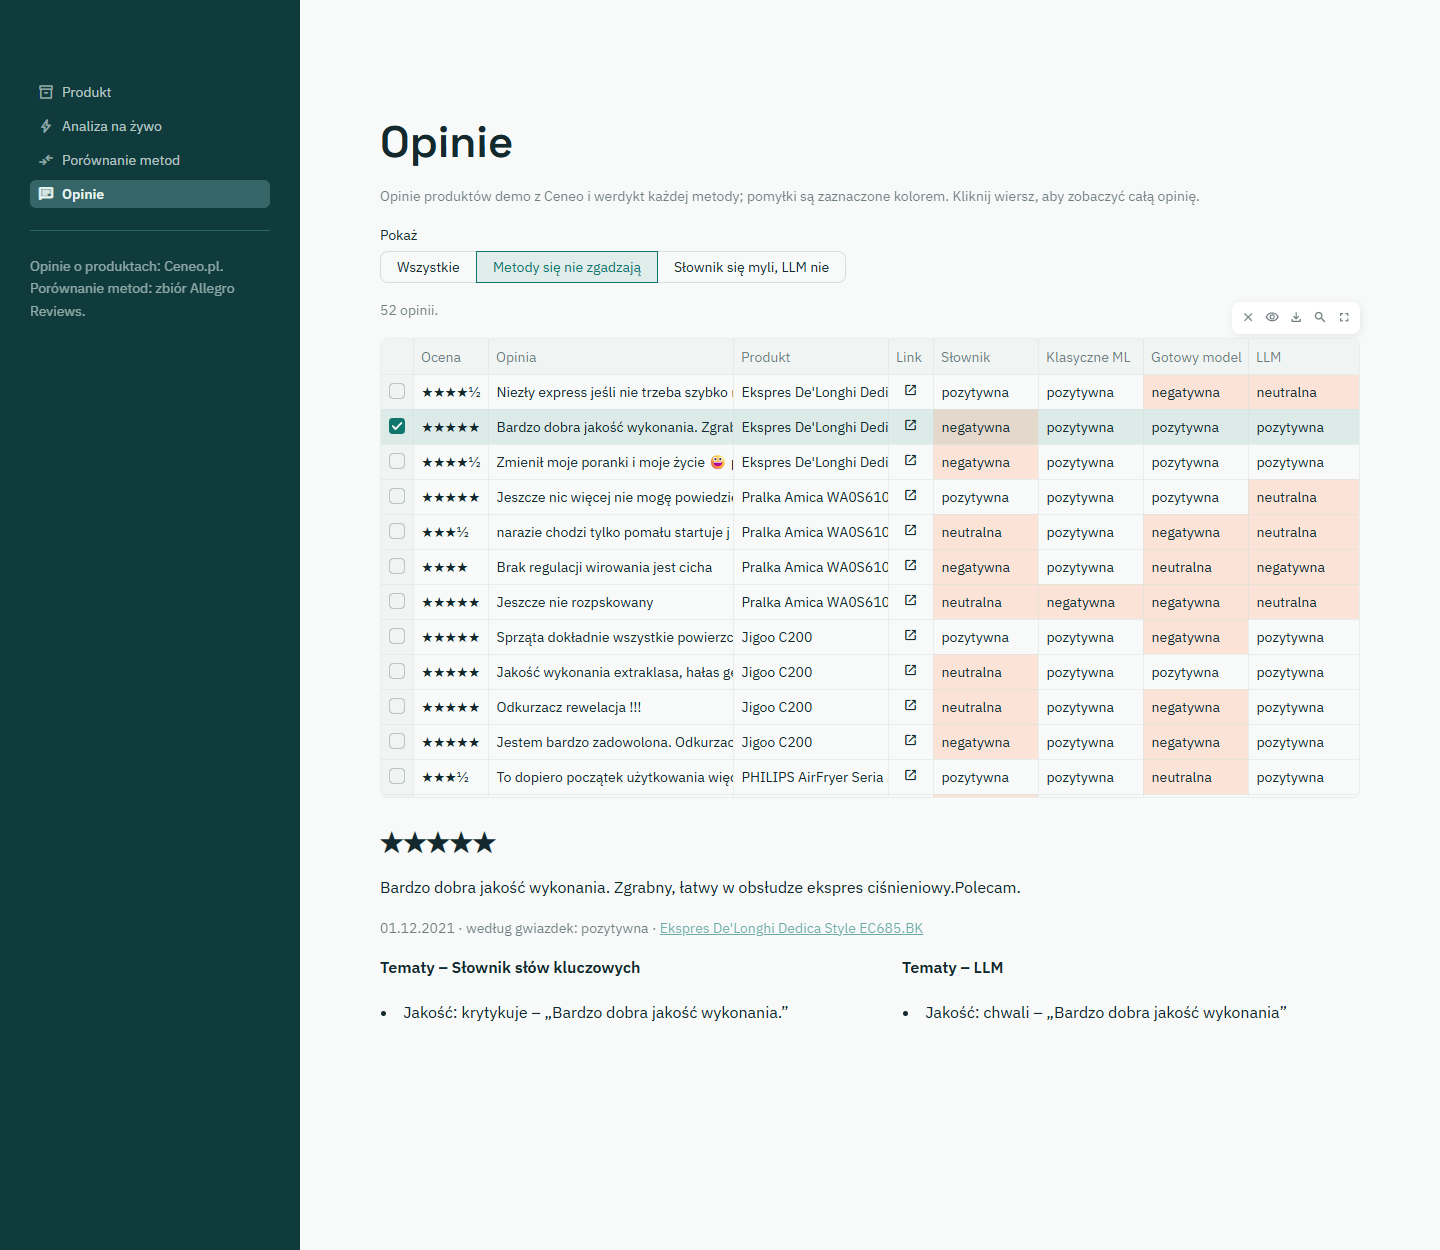
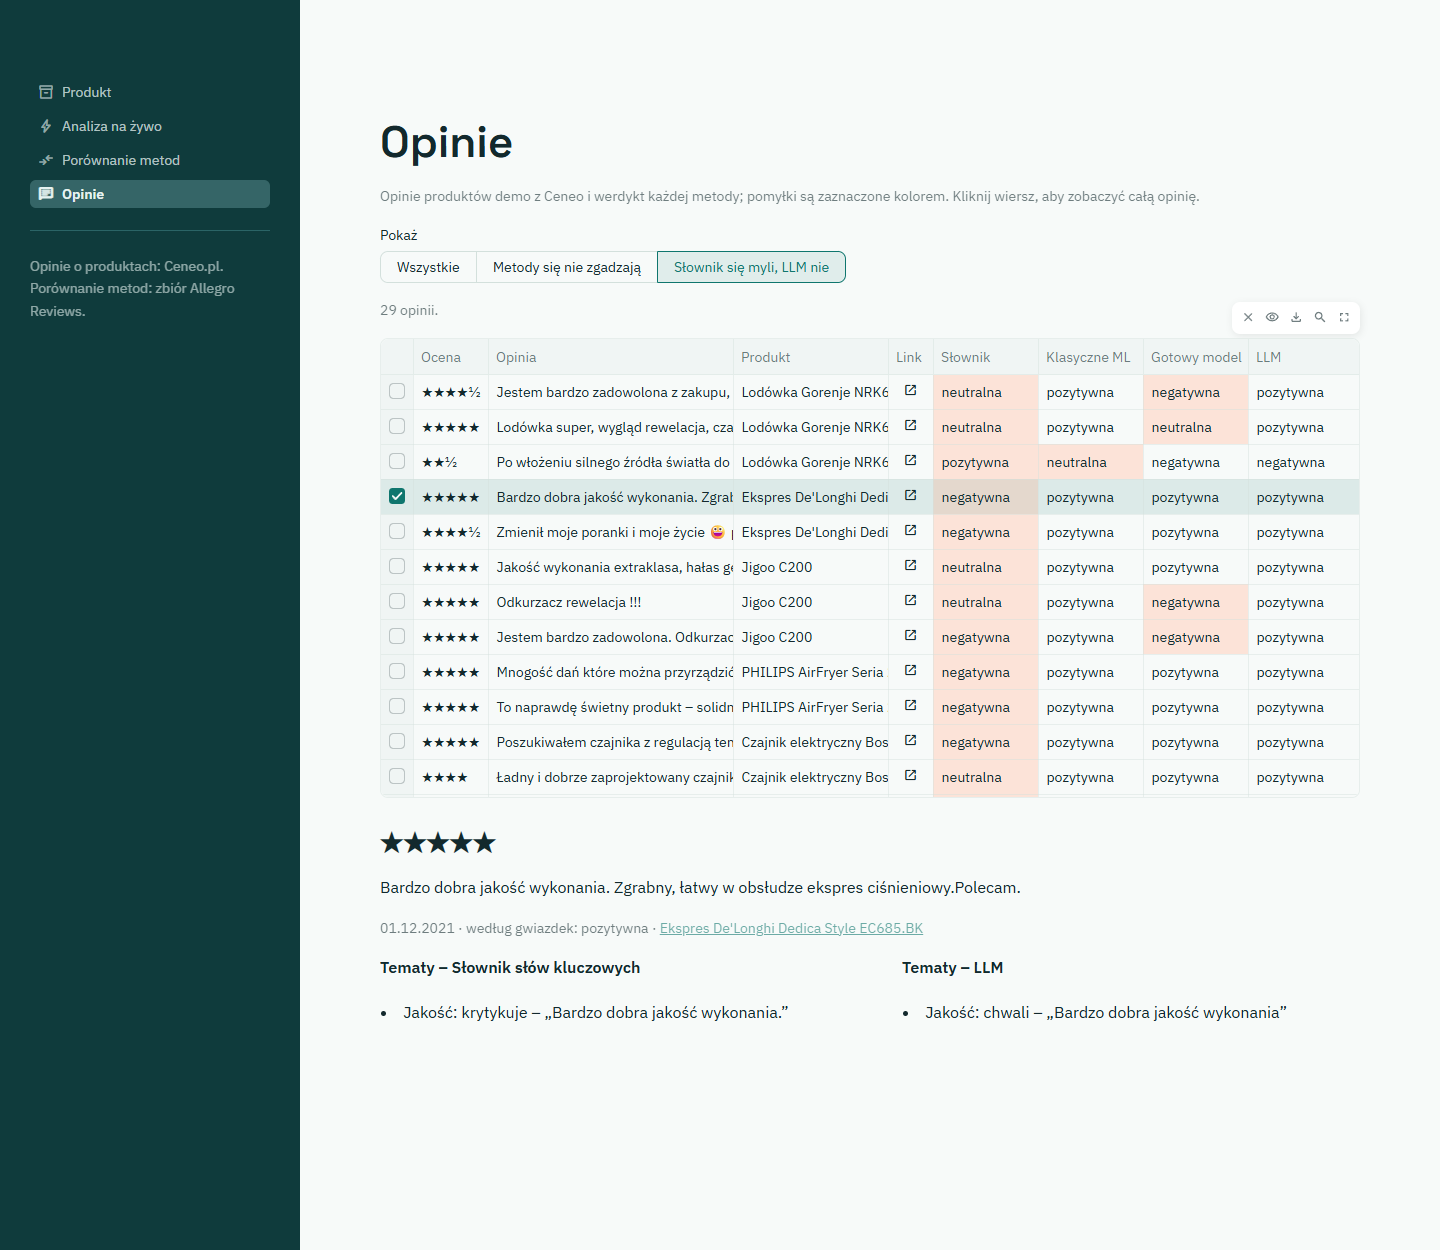
Simplify method comparison page and clean up code

diff --git a/views/comparison.py b/views/comparison.py
@@ -1,4 +1,4 @@
-"""Comparison of the four methods: quality, time and cost of analysing 1000 reviews."""
+"""Comparison of the four methods: quality, time and what the LLM would cost through an API."""
 
 import json
 
@@ -7,31 +7,29 @@ import pandas as pd
 import streamlit as st
 
 from src.app_data import load_eval, load_metrics
-from src.config import API_PRICES, API_PRICES_CHECKED, USD_PLN, USD_PLN_SOURCE
+from src.config import API_PRICES_CHECKED
 from src.formatting import (
     GRAY, INK, METHOD_LABELS, NEGATIVE, NEUTRAL, POSITIVE, SENTIMENT_LABELS, SOURCE_LABELS, TEAL, fmt_int, fmt_num,
     fmt_pct, fmt_pln, fmt_seconds,
 )
+from src.llm import api_costs
 from src.topics import TOPIC_LABELS
 
 metrics = load_metrics()
 evaluated = load_eval()
 methods = metrics["methods"]
 n = metrics["eval_reviews"]
-right = st.column_config.TextColumn(alignment="right")
+positive = metrics["class_shares"].get("positive", 0)
 
 st.title("Porównanie metod")
-st.caption(f"Te same {fmt_int(n)} opinii z publicznego zbioru Allegro Reviews dla każdej metody. Prawdą jest ocena "
-           "klienta: poniżej 3★ to opinia negatywna, 3★ neutralna, powyżej 3★ pozytywna.")
+st.caption(f"Te same {fmt_int(n)} polskich opinii ze zbioru Allegro Reviews dla każdej metody; "
+           "prawdą jest ocena klienta.")
 
 best = max(methods, key=lambda m: methods[m]["f1_macro"])
 best_negative = max(methods, key=lambda m: methods[m]["f1"]["negative"])
-st.markdown(
-    f"Najlepiej rozpoznaje sentyment **{METHOD_LABELS[best]}** (F1 makro {fmt_num(methods[best]['f1_macro'])}), "
-    f"a opinie negatywne najlepiej wyłapuje **{METHOD_LABELS[best_negative]}** "
-    f"(F1 {fmt_num(methods[best_negative]['f1']['negative'])}). "
-    f"Słownik jest najprostszy, ale wyraźnie słabszy (F1 makro {fmt_num(methods['lexicon']['f1_macro'])})."
-)
+st.markdown(f"Najlepiej rozpoznaje sentyment **{METHOD_LABELS[best]}**, a opinie negatywne najlepiej wyłapuje "
+            f"**{METHOD_LABELS[best_negative]}**. Słownik jest najprostszy, ale wyraźnie słabszy.")
+
 table = pd.DataFrame({
     "Metoda": [METHOD_LABELS[m] for m in methods],
     "Trafność": [fmt_pct(v["accuracy"], 1) for v in methods.values()],
@@ -39,23 +37,29 @@ table = pd.DataFrame({
     "Czas na 1000 opinii": [fmt_seconds(v["seconds_per_1000"]) for v in methods.values()],
 })
 st.dataframe(table, hide_index=True, width="stretch", column_config={
-    "Trafność": right,
+    "Trafność": st.column_config.TextColumn(
+        alignment="right", help="Jaka część opinii dostała dobrą ocenę. Ocena klienta: poniżej 3★ negatywna, "
+                                "3★ neutralna, powyżej 3★ pozytywna."),
     "F1 makro": st.column_config.TextColumn(
-        alignment="right", help="Średnia F1 z trzech klas: każda liczy się tak samo, także rzadkie opinie neutralne."),
-    "Czas na 1000 opinii": right,
+        alignment="right", help=f"Główna miara: średnia F1 z trzech klas, każda liczy się tak samo. Metoda, która zawsze "
+                                f"mówi „pozytywna”, ma trafność {fmt_pct(positive)}, ale F1 makro tylko "
+                                f"{fmt_num(2 * positive / (1 + positive) / 3)}."),
+    "Czas na 1000 opinii": st.column_config.TextColumn(
+        alignment="right", help=f"Zmierzony na {metrics['gpu']}. LLM: {metrics['llm_model']} przez Ollamę."),
 })
-st.caption(f"Wszystkie metody działały lokalnie, bez opłat. Czas zmierzony na {metrics['gpu']}. "
-           f"LLM: {metrics['llm_model']} przez Ollamę, "
-           f"{metrics['llm_workers']} zapytania naraz. Klasyczne ML uczyło się "
-           f"{fmt_seconds(metrics['tfidf_train_seconds'])} na {fmt_int(metrics['tfidf_train_reviews'])} innych opiniach.")
+costs = api_costs(metrics["llm_tokens_per_1000"])
+links = ", ".join(f"[{c['model'].split(' (')[0]}]({c['source']})" for c in costs)
+st.caption(f"Wszystkie metody działały lokalnie, bez opłat. Przez płatne API LLM kosztowałby "
+           f"{fmt_num(min(c['pln'] for c in costs))}–{fmt_pln(max(c['pln'] for c in costs))} za 1000 opinii "
+           f"(ceny z {API_PRICES_CHECKED}: {links}).")
 
 st.subheader("Które opinie sprawiają kłopot")
 per_class = pd.DataFrame([
     {"Metoda": METHOD_LABELS[m], "Klasa": SENTIMENT_LABELS[c], "F1": v["f1"][c]}
     for m, v in methods.items() for c in SENTIMENT_LABELS
 ])
-classes = list(SENTIMENT_LABELS.values())
 per_class["Etykieta"] = per_class["F1"].map(fmt_num)
+classes = list(SENTIMENT_LABELS.values())
 chart = alt.Chart(per_class).mark_bar(height=12, cornerRadius=3).encode(
     x=alt.X("F1:Q", scale=alt.Scale(domain=[0, 1]), title="F1 (1 = bez błędów)",
             axis=alt.Axis(values=[0, 0.2, 0.4, 0.6, 0.8, 1], labelExpr="replace(format(datum.value, '.1f'), '.', ',')")),
@@ -67,24 +71,7 @@ chart = alt.Chart(per_class).mark_bar(height=12, cornerRadius=3).encode(
 )
 labels = chart.mark_text(align="left", dx=4, fontSize=11).encode(text="Etykieta:N", color=alt.value(INK))
 st.altair_chart((chart + labels).properties(height=320), width="stretch")
-shares = metrics["class_shares"]
-st.caption(f"Opinii neutralnych (3★) jest najmniej ({fmt_pct(shares.get('neutral', 0), 1)}) i są najtrudniejsze: "
-           "klient pisze o zaletach i wadach naraz.")
-
-st.subheader("Ile kosztowałby LLM przez API")
-tokens = metrics["llm_tokens_per_1000"]
-costs = []
-for price in API_PRICES:
-    pln = (tokens["input"] * price["input"] + tokens["output"] * price["output"]) / 1e6 * USD_PLN
-    costs.append({"Model": price["model"], "Koszt na 1000 opinii": fmt_pln(pln),
-                  "Koszt na 100 000 opinii": fmt_pln(pln * 100), "Cennik": price["source"]})
-st.dataframe(pd.DataFrame(costs), hide_index=True, width="stretch", column_config={
-    "Koszt na 1000 opinii": right, "Koszt na 100 000 opinii": right,
-    "Cennik": st.column_config.LinkColumn(display_text="cennik"),
-})
-st.caption(f"Ceny standardowe z cenników z {API_PRICES_CHECKED}; {USD_PLN_SOURCE}. Liczba tokenów pochodzi z modelu "
-           f"lokalnego ({fmt_int(tokens['input'])} wejściowych i {fmt_int(tokens['output'])} wyjściowych na 1000 opinii). "
-           "Modele w API liczą tokeny trochę inaczej, więc to szacunek.")
+st.caption("Najtrudniejsze są opinie neutralne (3★): klient pisze o zaletach i wadach naraz.")
 
 st.subheader("Tematy: słownik czy LLM?")
 counts = pd.DataFrame([
@@ -101,15 +88,5 @@ chart = alt.Chart(counts).mark_bar(height=14, cornerRadius=3).encode(
     tooltip=["Temat:N", "Źródło:N", "Wzmianki:Q"],
 )
 st.altair_chart(chart.properties(height=320), width="stretch")
-st.markdown(
-    f"Słownik znajduje temat tylko wtedy, gdy padnie jedno ze słów z listy, a wydźwięk ocenia po słowach w zdaniu. "
-    f"LLM rozumie sens, ale czasem cytuje słowa, których klient nie napisał: dosłownych cytatów jest "
-    f"**{fmt_pct(metrics['llm_quotes_verbatim'])}**. Pozostałe aplikacja pomija."
-)
-
-positive = shares.get("positive", 0)
-st.info(
-    f"**Dlaczego nie wystarczy trafność?** {fmt_pct(positive)} opinii jest pozytywnych. Metoda, która zawsze mówi "
-    f"„pozytywna”, ma trafność {fmt_pct(positive)}, ale F1 makro tylko {fmt_num(2 * positive / (1 + positive) / 3)}.",
-    icon=":material/info:",
-)
+st.caption(f"Słownik widzi temat tylko wtedy, gdy padnie słowo z listy; LLM rozumie sens. "
+           f"{fmt_pct(metrics['llm_quotes_verbatim'])} cytatów LLM jest dosłownie w opinii, pozostałe aplikacja pomija.")

diff --git a/report.py b/report.py
@@ -13,13 +13,13 @@ import numpy as np
 import pandas as pd
 
 from src.config import (
-    API_PRICES, API_PRICES_CHECKED, DEMO_RESULTS, EVAL_RESULTS, METRICS_PATH, PRODUCTS_RESULTS, RESULTS_DIR,
-    SEED, USD_PLN, USD_PLN_SOURCE,
+    API_PRICES_CHECKED, DEMO_RESULTS, EVAL_RESULTS, METRICS_PATH, PRODUCTS_RESULTS, RESULTS_DIR, SEED, USD_PLN_SOURCE,
 )
 from src.formatting import (
     INK, METHOD_LABELS, NEGATIVE, NEUTRAL, POSITIVE, SENTIMENT_LABELS, SOURCE_LABELS, TEAL, fmt_int, fmt_num,
     fmt_pct, fmt_pln, fmt_seconds,
 )
+from src.llm import api_costs
 from src.topics import TOPIC_LABELS
 
 TOPIC_SAMPLE = RESULTS_DIR / "topic_review_sample.csv"
@@ -92,7 +92,7 @@ def topic_check(evaluated: pd.DataFrame) -> str:
     if not TOPIC_SAMPLE.exists():
         sample = evaluated.sample(SAMPLE_SIZE, random_state=SEED)
         pd.DataFrame({
-            "opinia": sample["text"].str.strip(),
+            "opinia": sample["text"],
             "tematy_slownik": sample["topics_keywords"].map(topics_text),
             "tematy_llm": sample["topics_llm"].map(topics_text),
             "poprawne_slownik": "",
@@ -127,19 +127,18 @@ def main() -> None:
     })
     tokens = metrics["llm_tokens_per_1000"]
     api = pd.DataFrame([{
-        "Model": p["model"],
-        "Cena USD za 1 mln tokenów (wejście / wyjście)": f"{fmt_num(p['input'])} / {fmt_num(p['output'])}",
-        "Koszt na 1000 opinii": fmt_pln((tokens["input"] * p["input"] + tokens["output"] * p["output"]) / 1e6 * USD_PLN),
-        "Źródło": p["source"],
-    } for p in API_PRICES])
+        "Model": c["model"],
+        "Cena USD za 1 mln tokenów (wejście / wyjście)": f"{fmt_num(c['input'])} / {fmt_num(c['output'])}",
+        "Koszt na 1000 opinii": fmt_pln(c["pln"]),
+        "Źródło": c["source"],
+    } for c in api_costs(tokens)])
     mentions = pd.DataFrame([
         {"Temat": TOPIC_LABELS[item["topic"]], "Źródło": SOURCE_LABELS[source]}
         for source in SOURCE_LABELS for raw in evaluated[f"topics_{source}"] for item in json.loads(raw)
     ]).value_counts().unstack(fill_value=0).reindex(list(TOPIC_LABELS.values())).reset_index()
     misses = evaluated[(evaluated["sent_lexicon"] != evaluated["sentiment"]) & (evaluated["sent_llm"] == evaluated["sentiment"])]
-    misses = misses.assign(content=misses["text"].str.strip())
+    examples = misses[misses["text"].str.len().between(5, 300)].head(4)
     demo = pd.read_parquet(DEMO_RESULTS)
-    examples = misses[misses["content"].str.len().between(5, 300)].head(4)
     shares = metrics["class_shares"]
 
     report = f"""# Wyniki – Głos Klienta
@@ -198,7 +197,7 @@ Cytaty LLM dosłownie obecne w opinii: {fmt_pct(metrics['llm_quotes_verbatim'])}
 
 ## Przykłady, w których słownik się myli, a LLM nie
 
-{chr(10).join(f'- „{row.content}” ({row.rating:g}★) – słownik: {SENTIMENT_LABELS[row.sent_lexicon]}, LLM: {SENTIMENT_LABELS[row.sent_llm]}' for row in examples.itertuples())}
+{chr(10).join(f'- „{row.text}” ({row.rating:g}★) – słownik: {SENTIMENT_LABELS[row.sent_lexicon]}, LLM: {SENTIMENT_LABELS[row.sent_llm]}' for row in examples.itertuples())}
 
 ## Produkty demo
 

diff --git a/analyze.py b/analyze.py
@@ -6,7 +6,6 @@ Run after prepare_data.py: uv run python analyze.py
 """
 
 import json
-import time
 from datetime import date
 
 import joblib
@@ -50,7 +49,6 @@ def compare(evaluated: pd.DataFrame, seconds: dict[str, float]) -> dict:
             }
             for method in METHODS
         },
-        "keywords_seconds_per_1000": seconds["keywords"] / n * 1000,
         "llm_tokens_per_1000": {
             "input": int(evaluated["llm_input_tokens"].sum() / n * 1000),
             "output": int(evaluated["llm_output_tokens"].sum() / n * 1000),
@@ -63,9 +61,7 @@ def main() -> None:
     train, evaluation, demo = load_allegro("train"), load_allegro("test"), pd.read_parquet(DEMO_INPUT)
 
     print(f"Uczę TF-IDF + regresję logistyczną na {len(train)} opiniach z Allegro Reviews...")
-    start = time.perf_counter()
     tfidf = train_tfidf(train["text"].tolist(), train["sentiment"].tolist())
-    train_seconds = time.perf_counter() - start
     MODELS_DIR.mkdir(exist_ok=True)
     joblib.dump(tfidf, TFIDF_PATH)
 
@@ -78,7 +74,6 @@ def main() -> None:
         "llm_workers": LLM_WORKERS,
         "transformer_model": TRANSFORMER_MODEL,
         "tfidf_train_reviews": len(train),
-        "tfidf_train_seconds": train_seconds,
         **compare(evaluated, seconds),
     }
 

diff --git a/src/llm.py b/src/llm.py
@@ -10,7 +10,7 @@ import time
 from dataclasses import dataclass
 from functools import cache
 
-from src.config import LLM_MODEL, OLLAMA_URL
+from src.config import API_PRICES, LLM_MODEL, OLLAMA_URL, USD_PLN
 from src.topics import TOPIC_LABELS
 
 REVIEW_SCHEMA = {
@@ -142,3 +142,10 @@ def analyse_review(text: str, model: str = LLM_MODEL) -> LLMCall:
 
 def product_report(title: str, n_reviews: int, evidence: str, model: str = LLM_MODEL) -> LLMCall:
     return _chat(REPORT_PROMPT.format(title=title, n_reviews=n_reviews, evidence=evidence), REPORT_SCHEMA, model)
+
+
+def api_costs(tokens: dict) -> list[dict]:
+    """What the LLM part would cost in zł through each API in API_PRICES, for the given tokens
+    ({"input", "output"}, counted by the local model): [{"model", "pln", "source", "input", "output"}]."""
+    return [{**price, "pln": (tokens["input"] * price["input"] + tokens["output"] * price["output"]) / 1e6 * USD_PLN}
+            for price in API_PRICES]

diff --git a/docs/tutorial.md b/docs/tutorial.md
@@ -42,7 +42,7 @@ dla opinii z jej pierwszej strony: cztery metody, tematy i raport. Wynik wygląd
 - Działa tylko przy lokalnym uruchomieniu, z kartą graficzną i Ollamą. W Dockerze ekran wyjaśnia, czego brakuje.
 - Kolejnych stron opinii Ceneo nie udostępnia bez weryfikacji, że jesteś człowiekiem, więc analizujemy tylko
   pierwszą stronę.
-- Analiza 10 opinii trwa ok. 20 sekund. Pierwsza po dłuższej przerwie jest wolniejsza, bo Ollama musi wczytać model.
+- Analiza 10 opinii trwa ok. pół minuty. Pierwsza po dłuższej przerwie jest wolniejsza, bo Ollama musi wczytać model.
 
 **Spróbuj:** wklej przykładowy link spod pola (Apple iPhone 15 256GB) i kliknij **Analizuj**. Zobaczysz 10 z 50
 opinii ze średnią 4,6★. Raport wskaże jako problem zgodność z opisem i faktury – jeden klient dostał telefon,
@@ -60,25 +60,25 @@ ocena klienta: poniżej 3★ to opinia negatywna, 3★ neutralna, powyżej 3★ 
 
 | Metoda | Trafność | F1 makro | Czas na 1000 opinii |
 |---|---|---|---|
-| Słownik wydźwięku | 49,8% | 0,37 | 2 s |
+| Słownik wydźwięku | 49,8% | 0,37 | 1 s |
 | Klasyczne ML (TF-IDF) | 73,2% | 0,63 | poniżej 1 s |
 | Gotowy model (Hugging Face) | 67,4% | 0,59 | 9 s |
-| LLM | 72,0% | 0,64 | 16 min |
+| LLM | 72,2% | 0,65 | 18 min |
 
 **Jak czytać wyniki:**
 
-- Po polsku najlepiej wypada LLM (F1 makro 0,64), ale TF-IDF uczony na polskich opiniach jest prawie tak samo dobry
+- Po polsku najlepiej wypada LLM (F1 makro 0,65), ale TF-IDF uczony na polskich opiniach jest prawie tak samo dobry
   (0,63) i liczy 1000 opinii w niecałą sekundę.
 - Gotowy model z Hugging Face jest wielojęzyczny i nie był uczony na polskich opiniach, dlatego wypada słabiej.
 - LLM najlepiej wyłapuje opinie negatywne (F1 0,84) i jako jedyny podaje tematy i cytaty.
 - Wykres „Które opinie sprawiają kłopot” pokazuje F1 osobno dla każdej klasy. Najtrudniejsze są opinie
   neutralne (3★): klient pisze o zaletach i wadach naraz.
-- Tabela „Ile kosztowałby LLM przez API” przelicza zużyte tokeny na ceny trzech tanich modeli w chmurze:
-  od 0,36 do 1,47 zł za 1000 opinii.
+- Zdanie pod tabelą przelicza tokeny zużyte przez LLM na ceny trzech tanich modeli w chmurze: od 0,36 do 1,47 zł
+  za 1000 opinii (linki prowadzą do cenników).
 - Wykres „Tematy: słownik czy LLM?” pokazuje, że LLM znajduje więcej wzmianek o każdym temacie niż słownik,
-  np. o jakości 672 zamiast 328 na 1006 opinii.
+  np. o jakości 667 zamiast 328 na 1006 opinii.
 
-Na dole ekranu jest wyjaśnienie, dlaczego główną miarą jest F1 makro, a nie trafność.
+Dlaczego główną miarą jest F1 makro, a nie trafność, wyjaśnia ikonka „?” przy nagłówku kolumny.
 
 ## 4. Opinie
 
@@ -94,7 +94,8 @@ Przełącznik **Pokaż** filtruje tabelę:
 - **Metody się nie zgadzają**: 52 opinie, w których co najmniej jedna metoda ma inne zdanie,
 - **Słownik się myli, LLM nie**: 29 opinii.
 
-**Spróbuj:** kliknij drugi wiersz („Bardzo dobra jakość wykonania…”, 5★, ekspres De'Longhi). Słownik uznał
+**Spróbuj:** wybierz widok **Słownik się myli, LLM nie** i kliknij czwarty wiersz („Bardzo dobra jakość
+wykonania…”, 5★, ekspres De'Longhi). Słownik uznał
 opinię za negatywną, a w tematach zapisał krytykę jakości. Powód: słowo „dobra” sprowadził do rzeczownika „dobro”,
 którego nie ma w słowniku, a „wykonania” do „wykonać”, które ma w słowniku ocenę −2. LLM rozumie sens zdania.
 
